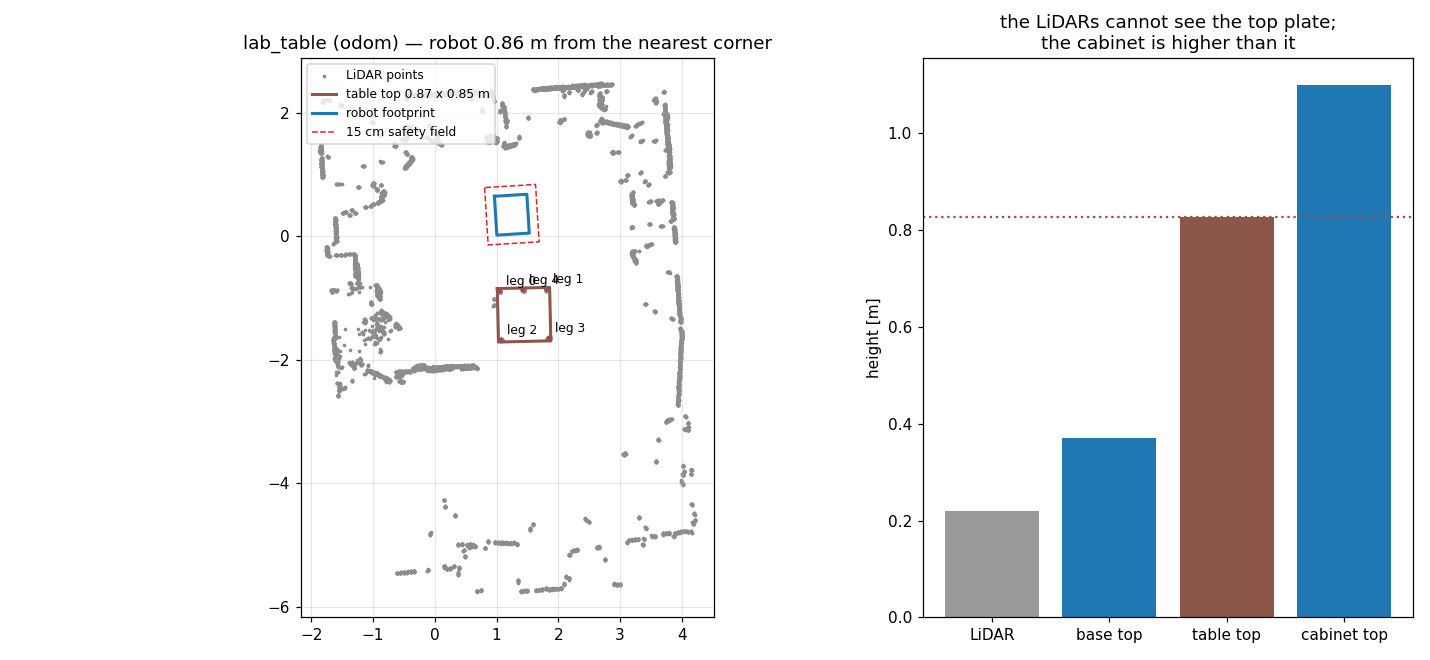
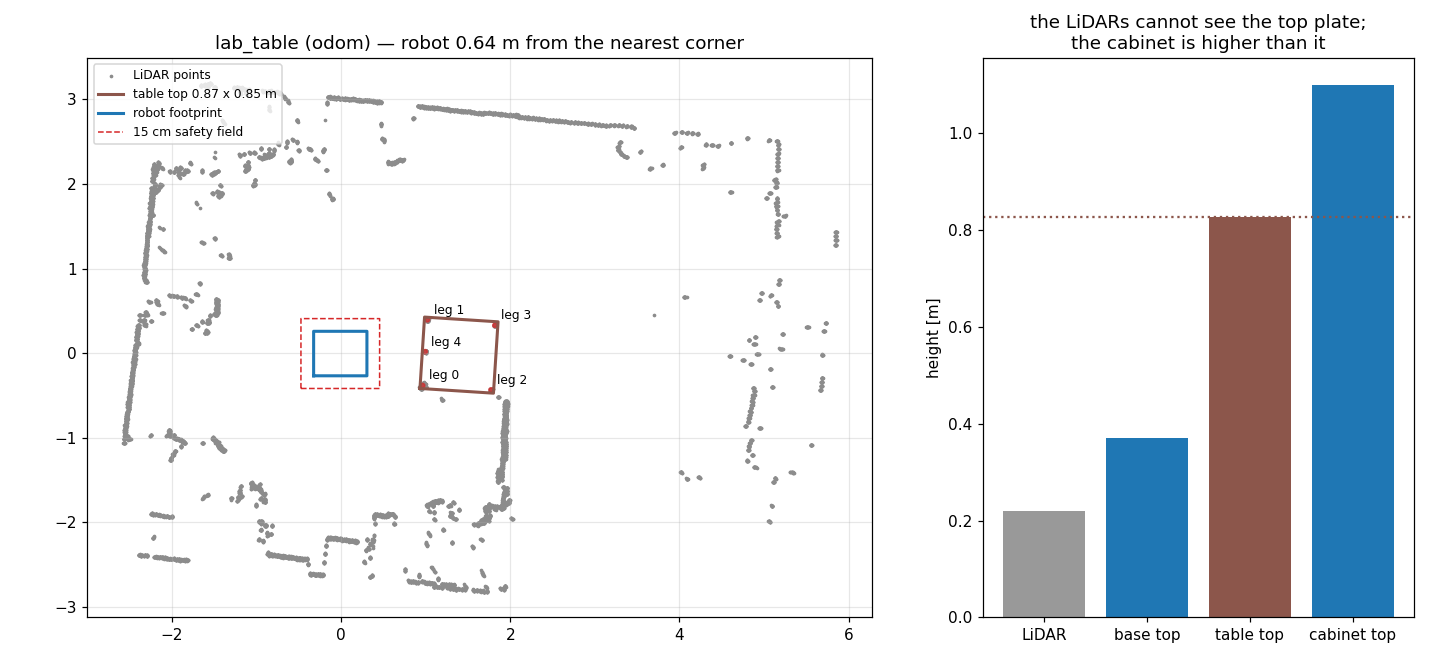
VGN False but static Sim2Real & Add Logger

diff --git a/src/steve_wbc/steve_wbc/table_probe.py b/src/steve_wbc/steve_wbc/table_probe.py
@@ -38,6 +38,10 @@ except ImportError:
     from steve_manipulation.safety_stop import SCAN_TOPICS, FOOTPRINT_MAX, FOOTPRINT_MIN, D_SAFE, ScanPoints
 
 HEAD = "/pan_tilt_camera/pan_tilt_camera"
+# Known lab table: geometry fixed, only its pose is measured (LiDAR legs) — no camera needed.
+# Height from the earlier depth-camera probe; override with --top_z.
+TABLE_TOP_Z = 0.827
+TABLE_LEGS = 5   # 4 corners + 1 in the middle of one long side
 R_OPT_TO_XFWD = np.array([[0.0, 0.0, 1.0], [-1.0, 0.0, 0.0], [0.0, -1.0, 0.0]])
 
 
@@ -61,10 +65,11 @@ class Probe:
         self._tfl = TransformListener(self.tf, n)
         self.scans = ScanPoints(n, a.lidar_topics, frame="base_link")
         self.K, self.depth = None, None
-        n.create_subscription(CameraInfo, f"{a.camera}/aligned_depth_to_color/camera_info",
-                              lambda m: setattr(self, "K", np.array(m.k).reshape(3, 3)), 10)
-        n.create_subscription(Image, f"{a.camera}/aligned_depth_to_color/image_raw", self._depth,
-                              qos_profile_sensor_data)
+        # camera disabled: table height is hardcoded (TABLE_TOP_Z), the pose comes from the LiDAR
+        # n.create_subscription(CameraInfo, f"{a.camera}/aligned_depth_to_color/camera_info",
+        #                       lambda m: setattr(self, "K", np.array(m.k).reshape(3, 3)), 10)
+        # n.create_subscription(Image, f"{a.camera}/aligned_depth_to_color/image_raw", self._depth,
+        #                       qos_profile_sensor_data)
 
     def _depth(self, msg):
         if msg.encoding in ("16UC1", "mono16"):
@@ -192,11 +197,10 @@ def main(argv=None):
     p.add_argument("--lidar_topics", nargs="+", default=list(SCAN_TOPICS["real"]))
     p.add_argument("--seconds", type=float, default=2.0, help="measurement time")
     p.add_argument("--lidar_only", action="store_true",
-                   help="no camera: find the 4 legs in the LiDAR scan (rectangle in front of the "
-                        "robot, roughly square to it); the top height must be given with --top_z")
-    p.add_argument("--top_z", type=float, default=None,
-                   help="table top height above the floor [m] (--lidar_only; without it the table "
-                        "is only detected and plotted, not saved)")
+                   help="(now the default, kept for compatibility) no camera: find the 4 legs in the "
+                        "LiDAR scan (rectangle in front of the robot, roughly square to it)")
+    p.add_argument("--top_z", type=float, default=TABLE_TOP_Z,
+                   help=f"table top height above the floor [m] (default: hardcoded {TABLE_TOP_Z})")
     p.add_argument("--overhang", type=float, default=0.03, help="top plate beyond the legs [m]")
     p.add_argument("--show", metavar="TABLE",
                    help="only show a saved model in RViz (MarkerArray /table_probe/markers, frame of "
@@ -256,9 +260,9 @@ def main(argv=None):
             print(f"  leg {i} at {np.round(w, 3)}: nearest LiDAR point {d * 100:+.1f} cm "
                   f"{'OK' if abs(d) < 0.05 else '<- model and reality differ (table moved? re-probe)'}")
         info, out = None, tables_dir() / f"{a.check}_check.png"
-    elif a.lidar_only:
+    else:  # LiDAR only, hardcoded top height (was: `elif a.lidar_only:`)
         try:
-            table, info = fit_table_lidar(lidar, robot, a.top_z if a.top_z else 0.75, a.overhang)
+            table, info = fit_table_lidar(lidar, robot, a.top_z, a.overhang)
         except ValueError as e:
             sys.exit(f"[ERROR] {e}")
         table.name, table.frame = a.name, a.frame
@@ -273,31 +277,35 @@ def main(argv=None):
         for i, (e, ctr, yaw) in enumerate(info["candidates"][1:4], 1):
             print(f"  alternative {i}: centre {ctr[0]:.2f} m ahead {ctr[1]:+.2f} m left, {yaw:+.1f}°, "
                   f"shape error {e * 100:.1f} cm")
+        if len(table.legs) != TABLE_LEGS:
+            print(f"  [WARN] {len(table.legs)} legs found, the lab table has {TABLE_LEGS} — a leg hidden "
+                  f"from the LiDAR? Move the robot so all legs are in view and re-run.")
         info["plane_inliers"] = []
         if a.top_z is None:
             out = tables_dir() / f"{a.name}_lidar_detect.png"
             print("  not saved: give the top height with --top_z <m> to save the model")
         else:
-            table.notes = f"table_probe --lidar_only {time.strftime('%Y-%m-%d %H:%M')}: top_z given"
+            table.notes = f"table_probe --lidar_only {time.strftime('%Y-%m-%d %H:%M')}: top_z {a.top_z}"
             path = table.save()
             print(f"saved {path}")
             out = path.with_suffix(".png")
-    else:
-        try:
-            table, info = fit_table(cloud, lidar, robot[0])
-        except ValueError as e:
-            sys.exit(f"[ERROR] {e}")
-        table.name, table.frame = a.name, a.frame
-        table.notes = (f"table_probe {time.strftime('%Y-%m-%d %H:%M')}: {len(info['plane_inliers'])} top "
-                       f"points, {len(info['lidar_under'])} LiDAR points under the top")
-        path = table.save()
-        print(f"saved {path}\n  centre {np.round(table.center, 3)} yaw {np.degrees(table.yaw):.1f}°  "
-              f"size {np.round(table.size, 3)} m  top z {table.top_z:.3f} m  legs {len(table.legs)}  "
-              f"skirt {table.skirt:.2f} m")
-        if not table.legs and not table.skirt:
-            print("  [WARN] no legs seen by the LiDAR — table outside the scan plane? The model still "
-                  "blocks the base via the top plate.")
-        out = path.with_suffix(".png")
+    # camera path (depth RANSAC top plate) — disabled while the table height is hardcoded
+    # else:
+    #     try:
+    #         table, info = fit_table(cloud, lidar, robot[0])
+    #     except ValueError as e:
+    #         sys.exit(f"[ERROR] {e}")
+    #     table.name, table.frame = a.name, a.frame
+    #     table.notes = (f"table_probe {time.strftime('%Y-%m-%d %H:%M')}: {len(info['plane_inliers'])} top "
+    #                    f"points, {len(info['lidar_under'])} LiDAR points under the top")
+    #     path = table.save()
+    #     print(f"saved {path}\n  centre {np.round(table.center, 3)} yaw {np.degrees(table.yaw):.1f}°  "
+    #           f"size {np.round(table.size, 3)} m  top z {table.top_z:.3f} m  legs {len(table.legs)}  "
+    #           f"skirt {table.skirt:.2f} m")
+    #     if not table.legs and not table.skirt:
+    #         print("  [WARN] no legs seen by the LiDAR — table outside the scan plane? The model still "
+    #               "blocks the base via the top plate.")
+    #     out = path.with_suffix(".png")
     fp, _ = footprint(robot)
     clear = min(np.min(np.linalg.norm(table.corners() - q, axis=1)) for q in fp[:4])
     plot(out, table, lidar, info, robot, f"{table.name} ({a.frame}) — robot {clear:.2f} m from the nearest corner")

diff --git a/src/steve_wbc/steve_wbc/active_perception_wbc.py b/src/steve_wbc/steve_wbc/active_perception_wbc.py
@@ -55,6 +55,7 @@ Run
   ros2 launch steve_wbc active_perception_wbc.launch.py use_sim_time:=false dry_run:=true
 """
 
+import os
 import sys
 import time
 from pathlib import Path
@@ -452,7 +453,8 @@ class WristDepthGrabber:
         return True
 
     def _depth_cb(self, m):
-        if self._got is None and time.monotonic() >= self._t_req:
+        # _t_req None: no frame requested (between views, the subscription stays alive)
+        if self._got is None and self._t_req is not None and time.monotonic() >= self._t_req:
             self._got = m
 
     def request(self):
@@ -1780,6 +1782,39 @@ class ActivePerceptionWBC:
         return 0 if self.result in ("success", "done", GOTO_DONE) else 1
 
 
+class _Tee:
+    """Console output also to a file (the run's states, decisions and result stay available)."""
+
+    def __init__(self, stream, f):
+        self.stream, self.f = stream, f
+
+    def write(self, data):
+        self.stream.write(data)
+        self.f.write(data)
+        self.f.flush()
+
+    def flush(self):
+        self.stream.flush()
+
+    def __getattr__(self, name):
+        return getattr(self.stream, name)
+
+
+def save_console(mode):
+    """--mode ros: tee stdout + stderr to ~/ros_logs/active_perception/<time>.log — for `ros2 run`;
+    under `ros2 launch` the workspace's logging hook already saves the output
+    (~/ros_logs/<launch file>_<time>/, see steve_hardware_bringup/env-hooks)."""
+    if mode != "ros" or os.environ.get("STEVE_LAUNCH_LOG_DIR"):
+        return
+    d = Path.home() / "ros_logs" / "active_perception"
+    d.mkdir(parents=True, exist_ok=True)
+    path = d / f"{time.strftime('%Y%m%d_%H%M%S')}.log"
+    f = open(path, "w", buffering=1)
+    f.write(f"# {' '.join(sys.argv)}\n")
+    sys.stdout, sys.stderr = _Tee(sys.stdout, f), _Tee(sys.stderr, f)
+    print(f"console output also saved to {path}")
+
+
 def main(argv=None):
     p = build_arg_parser("Steve active perception + VGN grasping — unified joint-velocity WBC")
     g = p.add_argument_group("active perception")
@@ -1859,6 +1894,7 @@ def main(argv=None):
     g.add_argument("--grip_effort", type=float, default=50.0)
     p.set_defaults(sim_q0=DRIVE_POSE, max_base_v=0.30, max_base_w=0.50, max_arm_vel=0.8, grasp_dz=-0.015)
     a = parse_args(argv, p)
+    save_console(a.mode)
     if a.mode == "kin":
         sys.exit("active_perception_wbc needs perception: use --mode sim or --mode ros")
     static_cube = a.scene in ("clutter", "far")

diff --git a/src/steve_wbc/README.md b/src/steve_wbc/README.md
@@ -224,7 +224,7 @@ ros2 launch steve_wbc figure8_wbc_demo.launch.py phase:=1 loops:=2
 
 | Step | Tool | Result |
 |---|---|---|
-| 1. Network, USB devices, camera serials | `ros2 run steve_hardware_bringup steve_doctor [--ros]` | checks `steve_hardware_bringup/config/robot_config.yaml` against the hardware ([details](../steve_hardware_bringup/README.md)) |
+| 1. Network, USB devices, camera serials | `ros2 run steve_hardware_bringup steve_doctor ` | checks `steve_hardware_bringup/config/robot_config.yaml` against the hardware ([details](../steve_hardware_bringup/README.md)) |
 | 2. Target object | `ros2 run steve_wbc target_calibrator --name my_ball --size 0.06` | `config/targets/my_ball.yaml` |
 | 3. Table | `ros2 run steve_wbc table_probe --name lab_table` | `config/tables/lab_table.yaml` + debug plot |
 | 4. Try it in MuJoCo with the same table | `ros2 launch steve_wbc active_perception_wbc.launch.py table:=lab_table` | |
